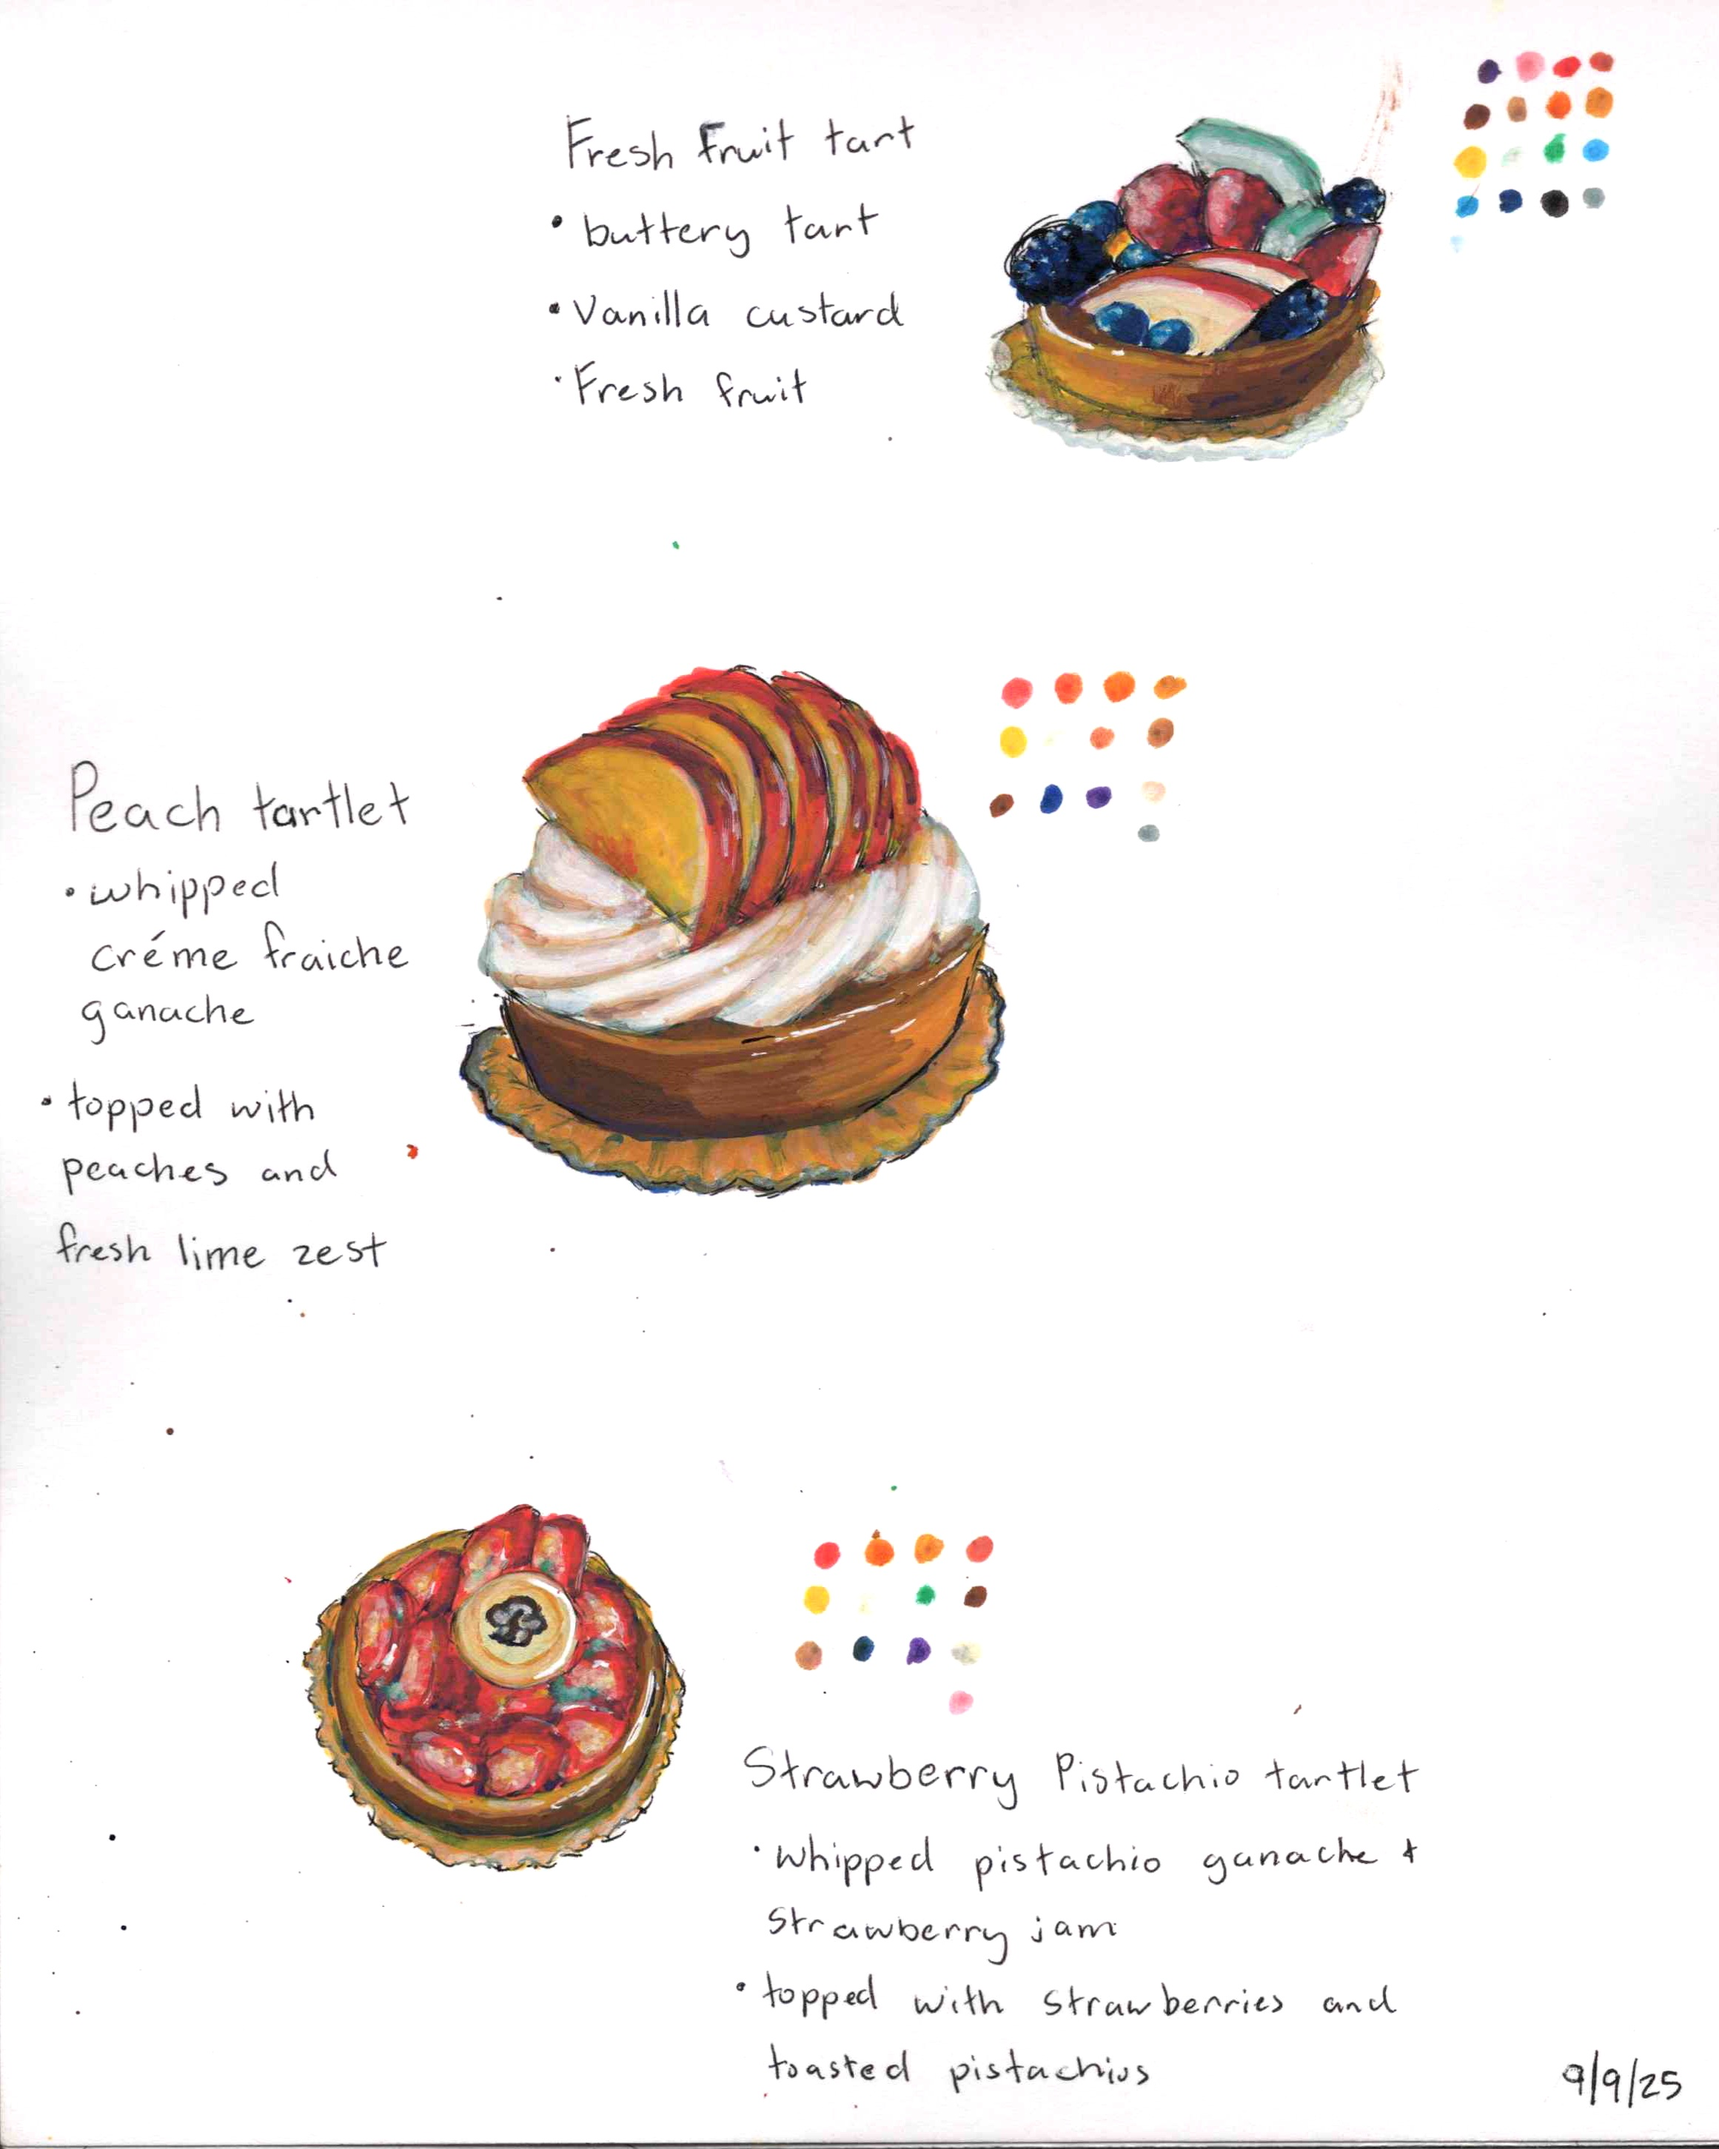
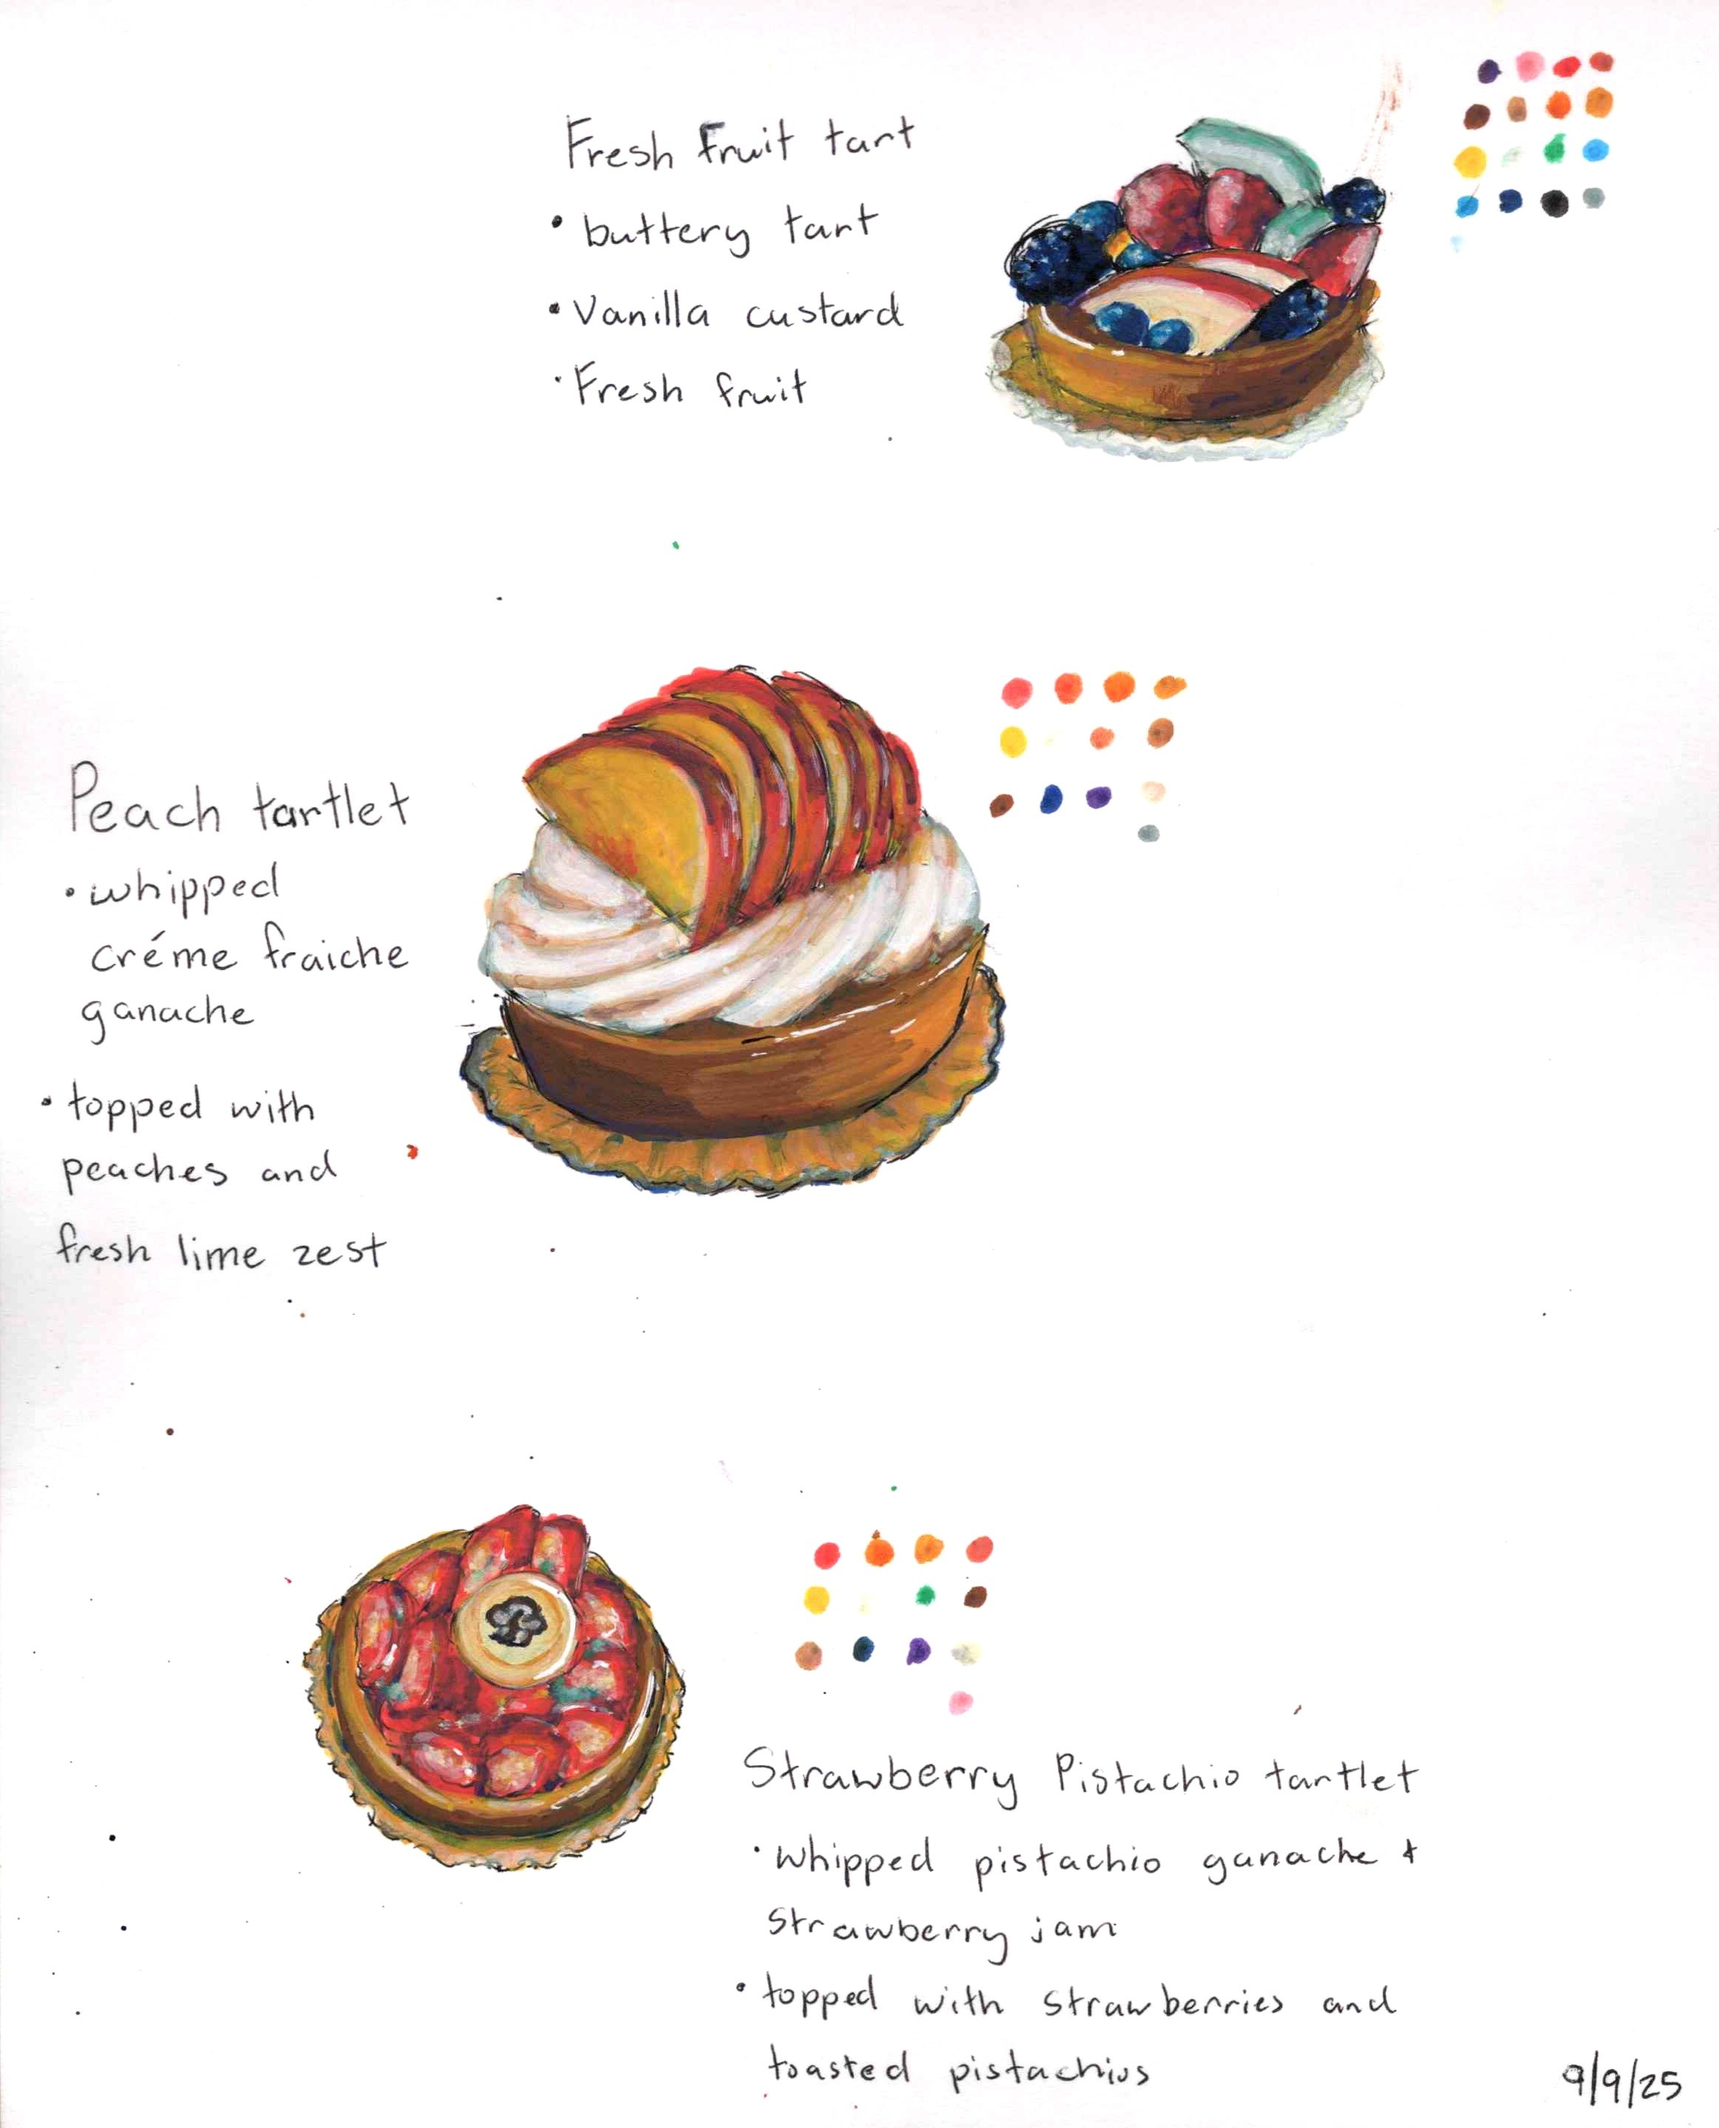
color changes to website and moving around pieces

diff --git a/index.html b/index.html
@@ -355,35 +355,11 @@
             data-details="lettering • cultural motifs • mixed presentation">
             <img src="images/loquat.jpg" alt="Fruit Baby Series" />
         </button>
-      </div>
-
-      <div class="artwork-library" aria-hidden="true" hidden>
-        <!-- Project-only works:
-             Set data-featured="false" to keep a piece out of Selected Work
-             while still showing it inside the matching Project collection. -->
-        <button class="tile" type="button"
-            data-featured="false"
-            data-collection="narrative"
-            data-src="images/red-mockup.png|images/front-red.png|images/Bookred-2.png|images/red.jpg"
-            data-title="Red Book Series"
-            data-year="2024"
-            data-medium="Gouache on paper"
-            data-series="Illustration Series"
-            data-role="Illustration"
-            data-desc="A warm palette study exploring atmospheric depth and edge control."
-            data-overview="A vibrant series built around letterform, food, and place, blending cultural motifs with bold graphic composition."
-            data-story="The work celebrates Thai Town through texture, ingredients, and signage, turning visual references from the neighborhood into something rhythmic and playful."
-            data-process="The series moves between standalone pieces, detail studies, and motion, allowing the visual language to stretch across formats while keeping the same energy."
-            data-details="project-only • narrative"
-            data-process-images="images/front-red.png|images/Bookred-2.png"
-            data-process-captions="Cover layout|Interior spread">
-            <img src="images/red.jpg" alt="Red Book Series" />
-        </button>
 
         <button class="tile" type="button"
             data-src="images/cBakery-01.jpg|images/cBakery-02.jpg|images/cBakery-03.jpg|images/cBakery-04.jpg|images/cBakery-05.jpg|images/cBakery-06.jpg|images/cBakery-07.jpg"
             data-title="Crossiant Bakery Series"
-            data-featured="false"
+            data-featured="true"
             data-collection="food"
             data-year="2025"
             data-medium="Gouache on paper"
@@ -415,10 +391,34 @@
             data-details="Clay Sculpture - Clay • Cardboard • Acrylic paint">
             <img src="images/cBakery-01.jpg" alt="Crossiant Bakery Series" />
         </button>
+      </div>
+
+      <div class="artwork-library" aria-hidden="true" hidden>
+        <!-- Project-only works:
+             Set data-featured="false" to keep a piece out of Selected Work
+             while still showing it inside the matching Project collection. -->
+        <button class="tile" type="button"
+            data-featured="false"
+            data-collection="narrative"
+            data-src="images/red-mockup.png|images/front-red.png|images/Bookred-2.png|images/red.jpg"
+            data-title="Red Book Series"
+            data-year="2024"
+            data-medium="Gouache on paper"
+            data-series="Illustration Series"
+            data-role="Illustration"
+            data-desc="A warm palette study exploring atmospheric depth and edge control."
+            data-overview="A vibrant series built around letterform, food, and place, blending cultural motifs with bold graphic composition."
+            data-story="The work celebrates Thai Town through texture, ingredients, and signage, turning visual references from the neighborhood into something rhythmic and playful."
+            data-process="The series moves between standalone pieces, detail studies, and motion, allowing the visual language to stretch across formats while keeping the same energy."
+            data-details="project-only • narrative"
+            data-process-images="images/front-red.png|images/Bookred-2.png"
+            data-process-captions="Cover layout|Interior spread">
+            <img src="images/red.jpg" alt="Red Book Series" />
+        </button>
 
         <button class="tile" type="button"
-            data-src="images/portrait-SILUT.jpg"
-            data-title="Someone I Look Up To"
+            data-src="images/portrait-SILUT.jpg|images/portrait-express.jpg"
+            data-title="Portrait Series"
             data-featured="false"
             data-collection="narrative"
             data-year="2025"
@@ -437,7 +437,7 @@
             <img src="images/portrait-SILUT.jpg" alt="I Look Up To Portrait" />
         </button>
 
-        <button class="tile" type="button"
+        <!-- <button class="tile" type="button"
             data-src="images/portrait-express.jpg"
             data-title="Expressive Portrait"
             data-featured="false"
@@ -456,7 +456,7 @@
             data-process="The series moves between standalone pieces, detail studies, and motion, allowing the visual language to stretch across formats while keeping the same energy."
             data-details="Acrylic paint">
             <img src="images/portrait-express.jpg" alt="Expressive Portrait" />
-        </button>
+        </button> -->
 
         <!-- <button class="tile" type="button"
             data-featured="false"

diff --git a/style-homepage.css b/style-homepage.css
@@ -4,10 +4,10 @@ html { scroll-behavior: smooth; }
 
 :root{
   --marigold: #E5902C;
-  --buff: #F3D58D;
+  --buff: #FEEABC;
   --pearl: #FFF4E8;
-  --police-blue: #EF4849;
-  --citrine-brown: #8A3B08;
+  --coral-red: #EF4849;
+  --crimson-red: #B52E32;
 
   /* Site roles */
   --bg: var(--pearl);               /* page background */
@@ -15,11 +15,11 @@ html { scroll-behavior: smooth; }
   --surface-2: #F8E4AE;             /* lighter buff hover */
 
   --accent: var(--marigold);        /* primary accent */
-  --accent-2: var(--police-blue);   /* secondary accent */
-  --accent-3: var(--citrine-brown); /* rare/strong accent */
+  --accent-2: var(--coral-red);   /* secondary accent */
+  --accent-3: var(--crimson-red); /* rare/strong accent */
 
   /* Text + borders */
-  --ink: var(--police-blue);   
+  --ink: var(--coral-red);   
   --ink-soft: rgba(47,67,101,0.86);
   --muted: rgba(47,67,101,0.70);
   --border: rgba(47,67,101,0.18);
@@ -177,7 +177,7 @@ p, li, a, button, input, textarea {
     font-size: 16px;
     padding: 12px 16px;
     text-decoration: none;
-    color: #8A3B08;
+    color: #B52E32;
     font-weight: 800;
     border-radius: 999px;
     transition: background 160ms ease, color 160ms ease, transform 160ms ease, padding 220ms ease, font-size 220ms ease, opacity 220ms ease;
